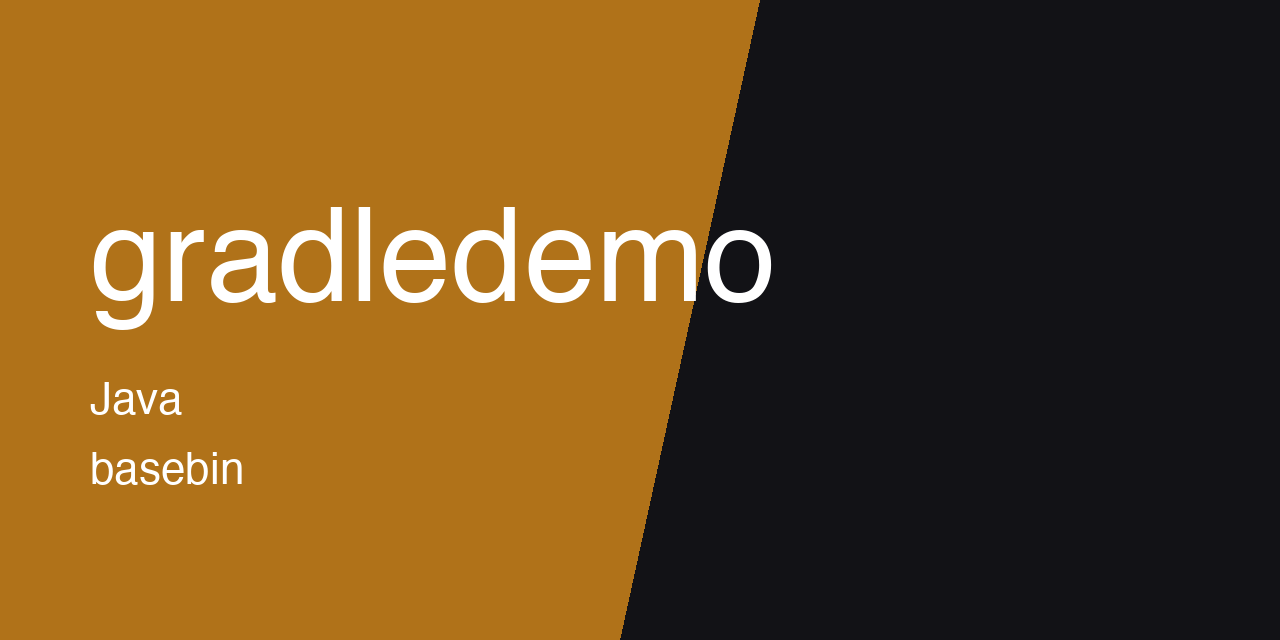
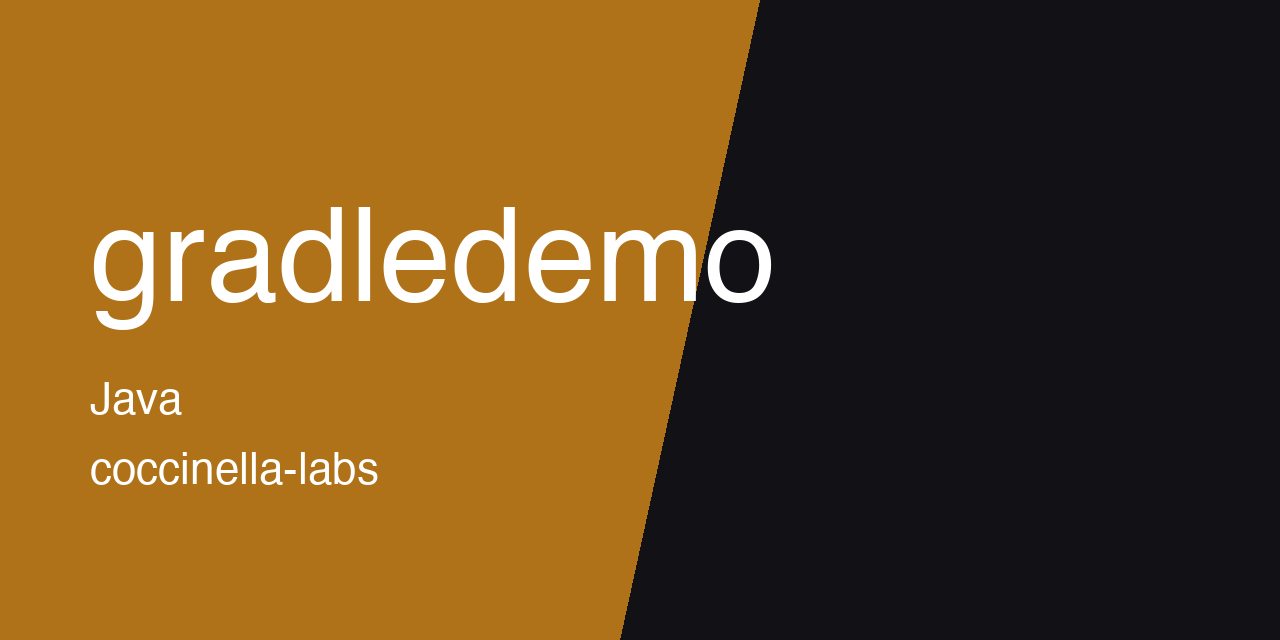
[docs] move thumbnail to coccinella-labs

Changed region(s): [[0.0625, 0.7188, 0.3125, 0.7812]]

diff --git a/README.md b/README.md
@@ -1,5 +1,5 @@
 <p align="center">
-  <img src="https://raw.githubusercontent.com/basebin/gradledemo/main/.github/assets/thumbnail.png" alt="gradledemo" width="100%">
+  <img src="https://raw.githubusercontent.com/Coccinella-Labs/gradledemo/main/.github/assets/thumbnail.png" alt="gradledemo" width="100%">
 </p>
 
 # Java HTTP Gradle Demonstration
